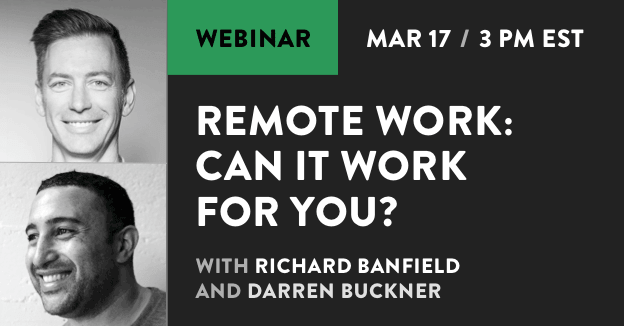
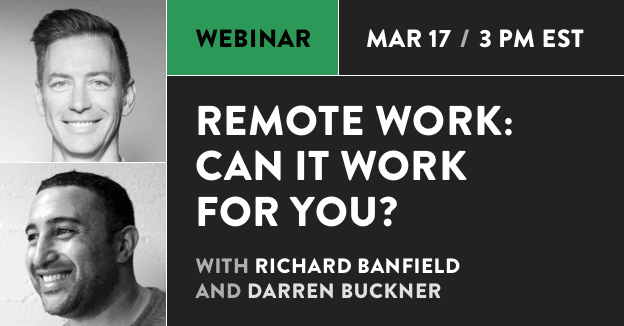
Update webinar email
- Update artwork
- Update rule color

Changed region(s): [[0.2436, 0.0, 0.274, 1.0], [0.5176, 0.2147, 0.5481, 0.2454]]

diff --git a/gym-emails/webinar-remote-work-email-v2/index.html b/gym-emails/webinar-remote-work-email-v2/index.html
@@ -50,7 +50,7 @@ table td {padding: 0;}
           <td width="600" align="center" style="padding: 0;">
             <table width="100%" cellspacing="0" cellpadding="0" border="0" bgcolor="#222222" style="background-color: #222222; border-spacing: 0;" role="presentation">
               <tr>
-                <td align="left" valign="top" style="border-top: 1px solid #6b6b6b;">
+                <td align="left" valign="top" style="border-top: 1px solid #c8c8c8;">
                   <a href="https://thegymnasium.com" target="_blank" title="Register to Attend" style="display: block; text-decoration: none; outline: 0; cursor: pointer;">
                    <img alt="Remote Work: Can It Work for You?" src="img/webinar-remote-work-624w.png" width="540" height="282" style="display: block; font-family: 'Helvetica Neue', Helvetica, Arial, 'Droid Sans', sans-serif; font-size: 24px; font-weight: bold; color: #f8971d; vertical-align: middle; width: 100%; max-width: 100%; height: auto; -ms-interpolation-mode: bicubic;">
                   </a>
